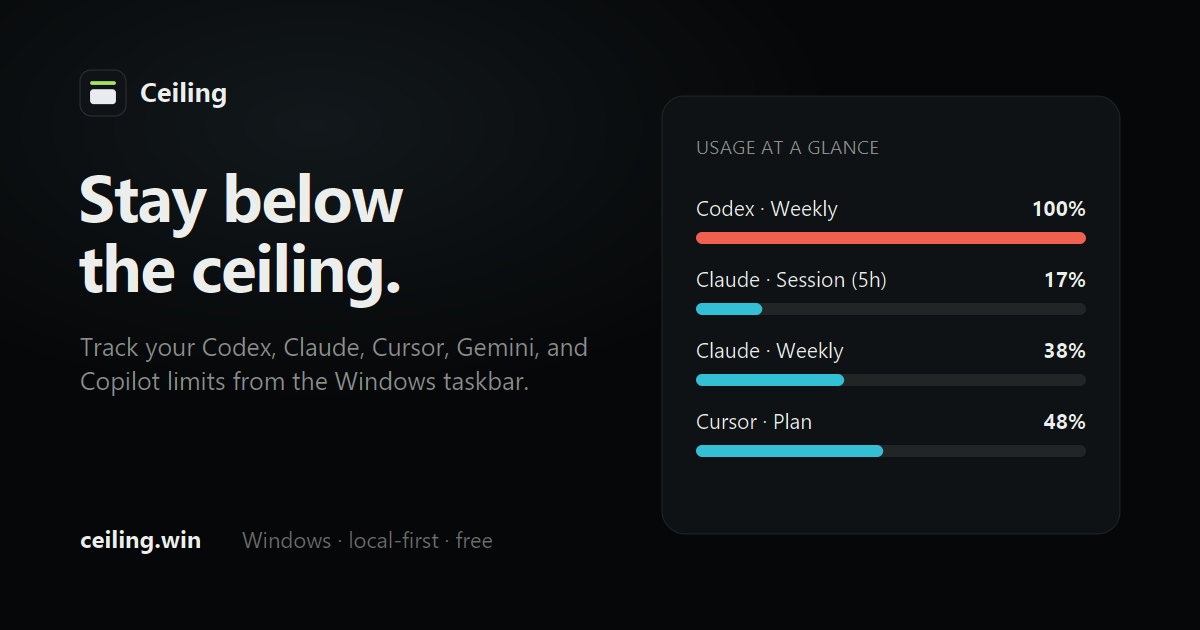
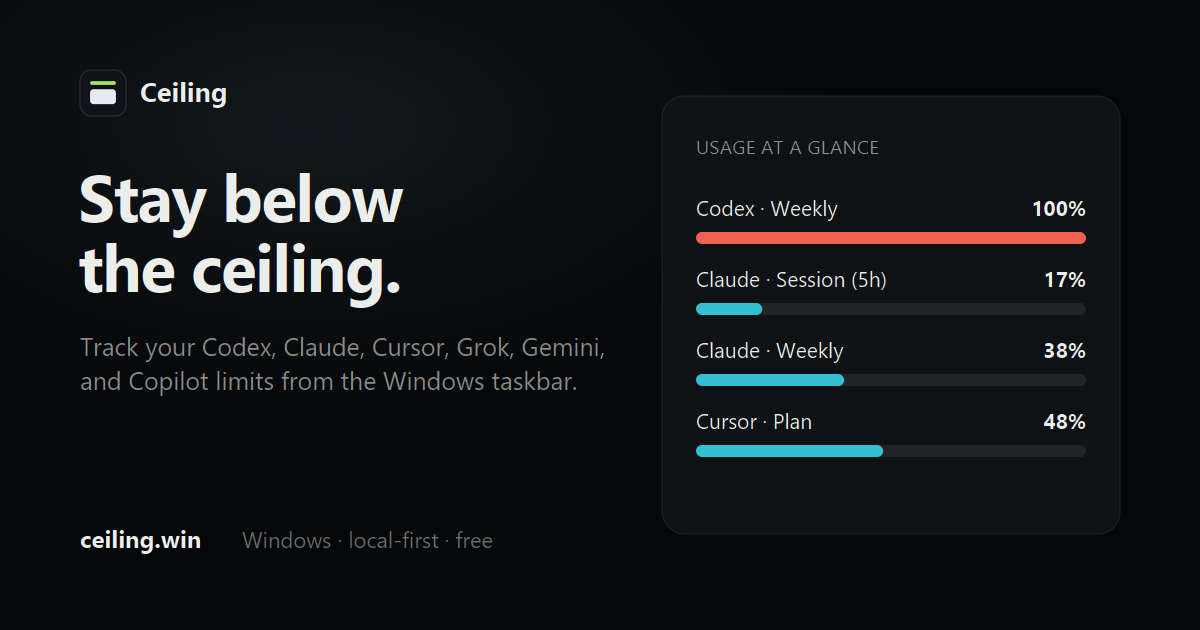
Refresh the marketing screenshots and provider copy
The site and README screenshots were taken when Ceiling tracked three
providers. New captures show six, across several accounts, with banked
resets and the named states that shipped since.

Grok was missing from every provider list except the GitHub About: the
site's list, its meta and schema descriptions, and the social cards all
stopped at Copilot. The cards are regenerated from their SVG sources.
README said "core five" above a list of six, and never mentioned Charts
or multiple accounts at all.

Account identifiers that the app leaves visible are masked in the shots
the way the app masks them elsewhere.

Changed region(s): [[0.0617, 0.5429, 0.4933, 0.6333]]

diff --git a/site/index.html b/site/index.html
@@ -6,7 +6,7 @@
     <title>Ceiling — AI capacity, limits, and resets for Windows</title>
     <meta
       name="description"
-      content="Ceiling is a local-first Windows app that keeps AI capacity, reset times, alerts, and usage history nearby. Track Codex, Claude, Cursor, Gemini, and Copilot from the taskbar."
+      content="Ceiling is a local-first Windows app that keeps AI capacity, reset times, alerts, and usage history nearby. Track Codex, Claude, Cursor, Grok, Gemini, and Copilot from the taskbar."
     />
     <meta name="theme-color" content="#07090c" />
     <meta name="robots" content="index,follow,max-image-preview:large" />
@@ -52,7 +52,7 @@
             "name": "Ceiling",
             "operatingSystem": "Windows 10, Windows 11",
             "applicationCategory": "UtilitiesApplication",
-            "description": "A local-first Windows app that tracks AI subscription capacity, reset windows, alerts, and usage history for Codex, Claude, Cursor, Gemini, and Copilot.",
+            "description": "A local-first Windows app that tracks AI subscription capacity, reset windows, alerts, and usage history for Codex, Claude, Cursor, Grok, Gemini, and Copilot.",
             "url": "https://ceiling.win/",
             "downloadUrl": "https://ceiling.win/download",
             "image": "https://ceiling.win/og.png",
@@ -520,18 +520,18 @@
             <div class="taskbar">
               <img
                 src="/ceiling-taskbar.png"
-                width="863"
-                height="47"
+                width="1710"
+                height="79"
                 fetchpriority="high"
-                alt="Ceiling's capacity strip placed just above the Windows taskbar"
+                alt="Ceiling's capacity strip placed just above the Windows taskbar, showing Codex, Claude, Cursor, Grok, and OpenCode"
               />
             </div>
             <div class="overview-shot shot">
               <img
                 src="/ceiling-overview.png"
-                width="569"
-                height="685"
-                alt="Ceiling's overview showing Codex, Claude, and Cursor usage at a glance"
+                width="1040"
+                height="1357"
+                alt="Ceiling's overview showing Codex, Claude, Cursor, Grok, and OpenCode Go usage across several accounts"
               />
             </div>
           </div>
@@ -616,8 +616,8 @@
             <div class="shot taskbar-shot">
               <img
                 src="/ceiling-taskbar.png"
-                width="863"
-                height="47"
+                width="1710"
+                height="79"
                 loading="lazy"
                 alt="Ceiling's capacity strip integrated above the Windows taskbar"
               />
@@ -629,7 +629,7 @@
           <h2 id="providers-heading">One quiet view for the plans you use.</h2>
           <p>Ceiling currently supports the AI subscriptions and sessions that are hardest to keep track of during a working day.</p>
           <div class="provider-list" role="list" aria-label="Supported providers">
-            <span role="listitem">OpenAI Codex</span><span role="listitem">Claude</span><span role="listitem">Cursor</span><span role="listitem">Gemini</span><span role="listitem">GitHub Copilot</span>
+            <span role="listitem">OpenAI Codex</span><span role="listitem">Claude</span><span role="listitem">Cursor</span><span role="listitem">Grok</span><span role="listitem">Gemini</span><span role="listitem">GitHub Copilot</span>
           </div>
         </section>
 

diff --git a/README.md b/README.md
@@ -1,5 +1,5 @@
 <p align="center">
-  <img src="site/ceiling-taskbar.png" alt="Ceiling's capacity strip above the Windows taskbar, showing Codex, Claude, and Cursor usage with reset times" width="820">
+  <img src="site/ceiling-taskbar.png" alt="Ceiling's capacity strip above the Windows taskbar, showing Codex, Claude, Cursor, Grok, and OpenCode usage with reset times" width="820">
 </p>
 
 <h1 align="center">Ceiling</h1>
@@ -26,7 +26,7 @@ Ceiling is a focused, local-first Windows companion for the AI subscriptions you
 
 The goal is not another giant provider dashboard. It is a fast, calm way to answer one question: **how much AI capacity do I have left, and when does it reset?**
 
-## Initial focus
+## Provider focus
 
 - OpenAI Codex
 - Claude
@@ -35,23 +35,25 @@ The goal is not another giant provider dashboard. It is a fast, calm way to answ
 - Gemini / Google AI
 - GitHub Copilot
 
-Additional providers remain available from the underlying foundation while Ceiling is narrowed around reliable support for the core five.
+These six get first-class support: documented data sources, banked resets, and charts. Many more providers remain available from the underlying foundation, and each one reads from a local session or the provider's own usage endpoint. See [How Ceiling gets your data](docs/DATA_SOURCES.md) for the per-provider detail.
 
 <p align="center">
-  <img src="docs/images/ceiling-overview.png" alt="Ceiling's overview showing Codex, Claude, and Cursor usage at a glance" width="520">
+  <img src="docs/images/ceiling-overview.png" alt="Ceiling's overview showing Codex, Claude, Cursor, Grok, and OpenCode Go usage across several accounts" width="520">
 </p>
 
 ## What Ceiling feels like
 
 - **Taskbar-adjacent capacity strip:** Windows 11 does not support old-style third-party taskbar toolbars, so Ceiling uses a transparent, always-on-top strip that sits just above the taskbar without stealing focus.
 - **Tray at a glance:** a compact flyout with each provider's remaining capacity, reset time, source, and freshness.
+- **Several accounts per provider:** a personal and a work seat sit side by side, each with its own limits, resets, and charts.
+- **Usage history and charts:** tokens burned since your last reset with an estimated API value beside them, a 30-day breakdown by model and project, and Codex against Claude on the same rolling clock.
 - **Truthful state:** a visible distinction between live, cached, stale, and failed reads. No fake precision when a provider cannot report a limit cleanly.
 - **Usage and reset alerts:** optional toasts when you approach a limit, and when a window resets unexpectedly, is restored, or grants a banked reset.
 - **Local first:** credentials and usage data stay on the machine. Browser cookies, API keys, and login sources remain opt-in.
 - **Windows-native:** Tauri, React, and Rust; fast startup, low idle work, and system accent-aware appearance.
 
 <p align="center">
-  <img src="docs/images/ceiling-tray.png" alt="Ceiling's tray flyout with each provider's remaining capacity and reset time" width="320">
+  <img src="docs/images/ceiling-tray.png" alt="Ceiling's tray flyout listing each account's remaining capacity, banked resets, and reset time" width="320">
 </p>
 
 ## Download
